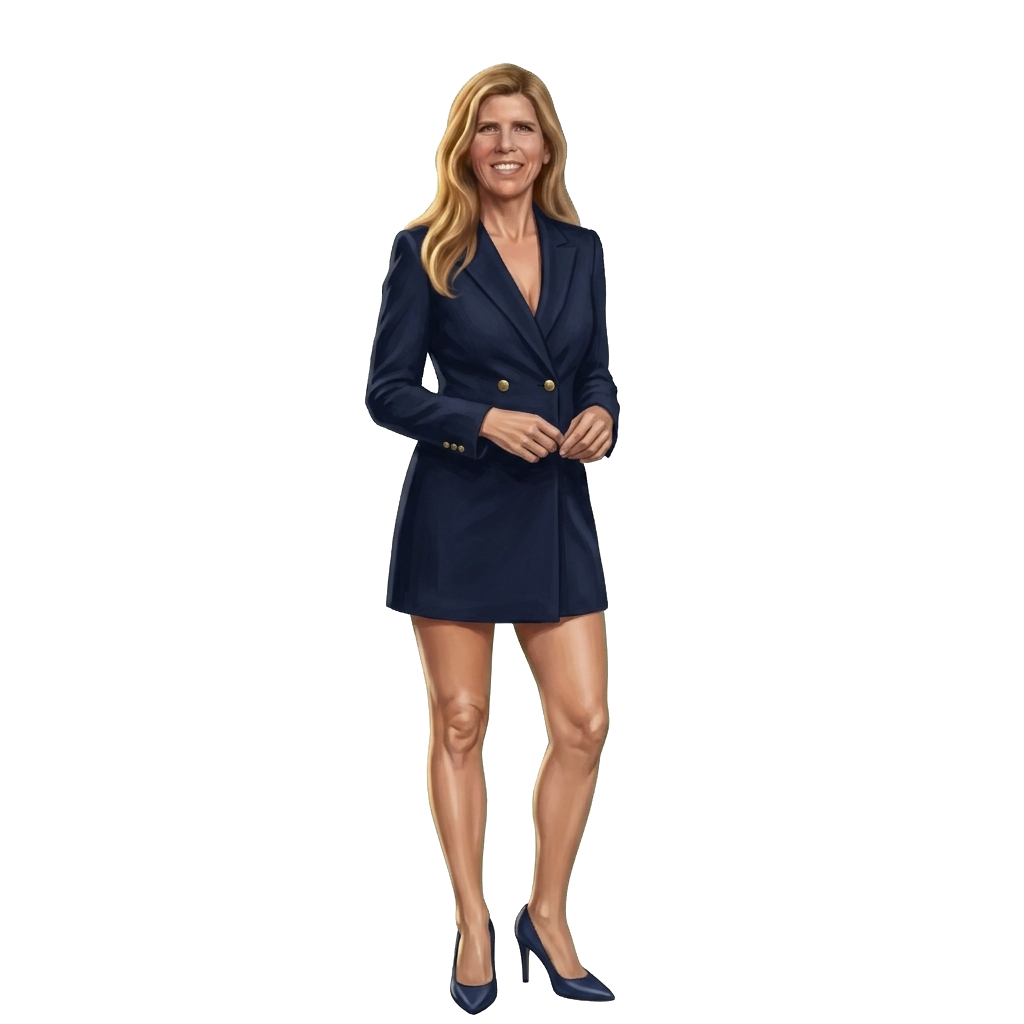
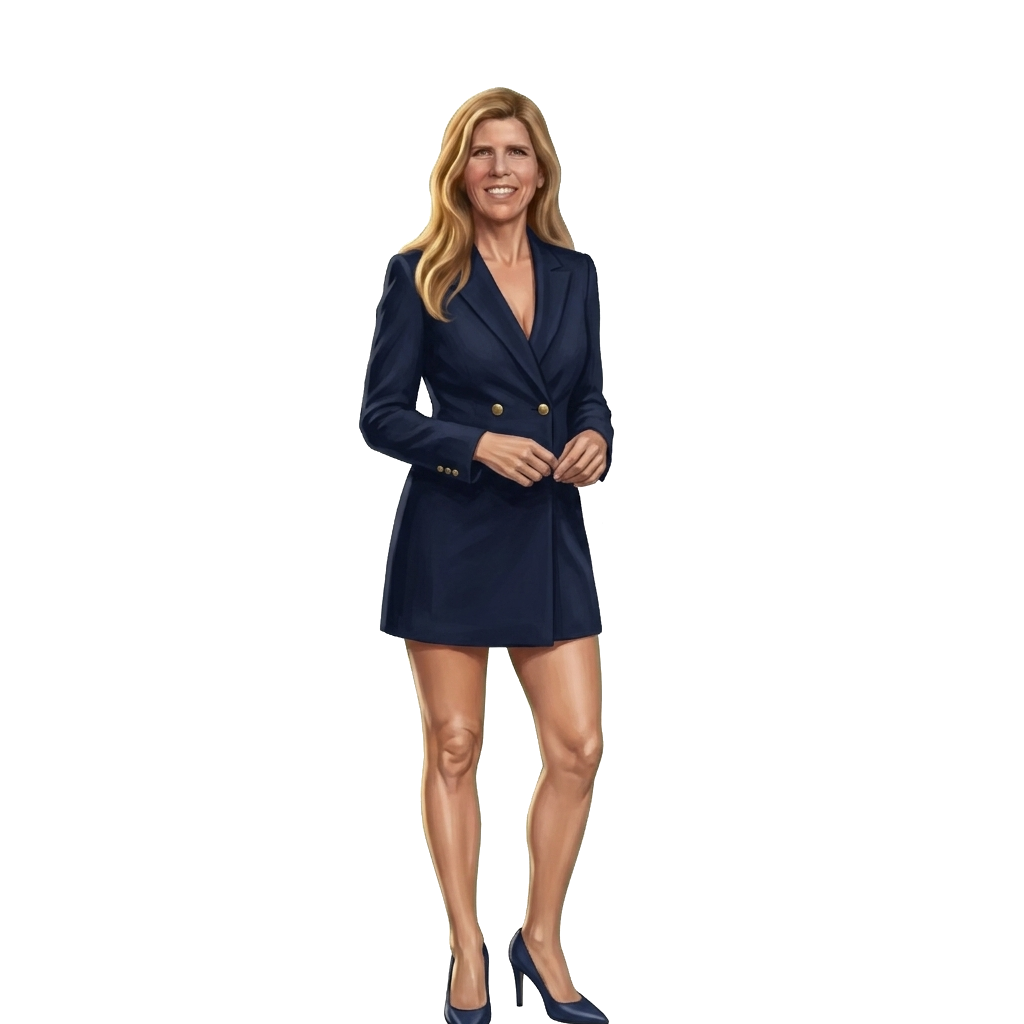
Fix Navy Blazer Dress headroom and reduce foreground zoom to prevent head cutoff

Changed region(s): [[0.3438, 0.0625, 0.625, 1.0]]

diff --git a/Indies Kayak Forecast/index.html b/Indies Kayak Forecast/index.html
@@ -766,7 +766,7 @@
             <div class="absolute bottom-[3.2%] left-1/2 -translate-x-1/2 z-[1] w-32 h-3.5 rounded-full bg-slate-950/45 blur-[4px] pointer-events-none"></div>
 
             <!-- Zoomed Head-to-Toe Foreground Layer (Smooth Chest Breathing, Zero Jump) -->
-            <div class="relative z-10 w-full h-full scale-[1.09]" style="transform-origin: 50% 94%;">
+            <div class="relative z-10 w-full h-full scale-[1.02]" style="transform-origin: 50% 94%;">
                 <div id="indie-stage" class="relative w-full h-full indie-live-motion">
                     <img id="indie-frame-closed" src="assets/indie_onepiece_closed.png" alt="Indie standing head-to-toe beside her kayak at Morro Bay" class="absolute inset-0 z-10 w-full h-full object-contain opacity-100" />
                     <img id="indie-frame-mid" src="assets/indie_onepiece_mid.png" alt="" aria-hidden="true" class="indie-frame-img absolute inset-0 z-20 w-full h-full object-contain opacity-0" />
